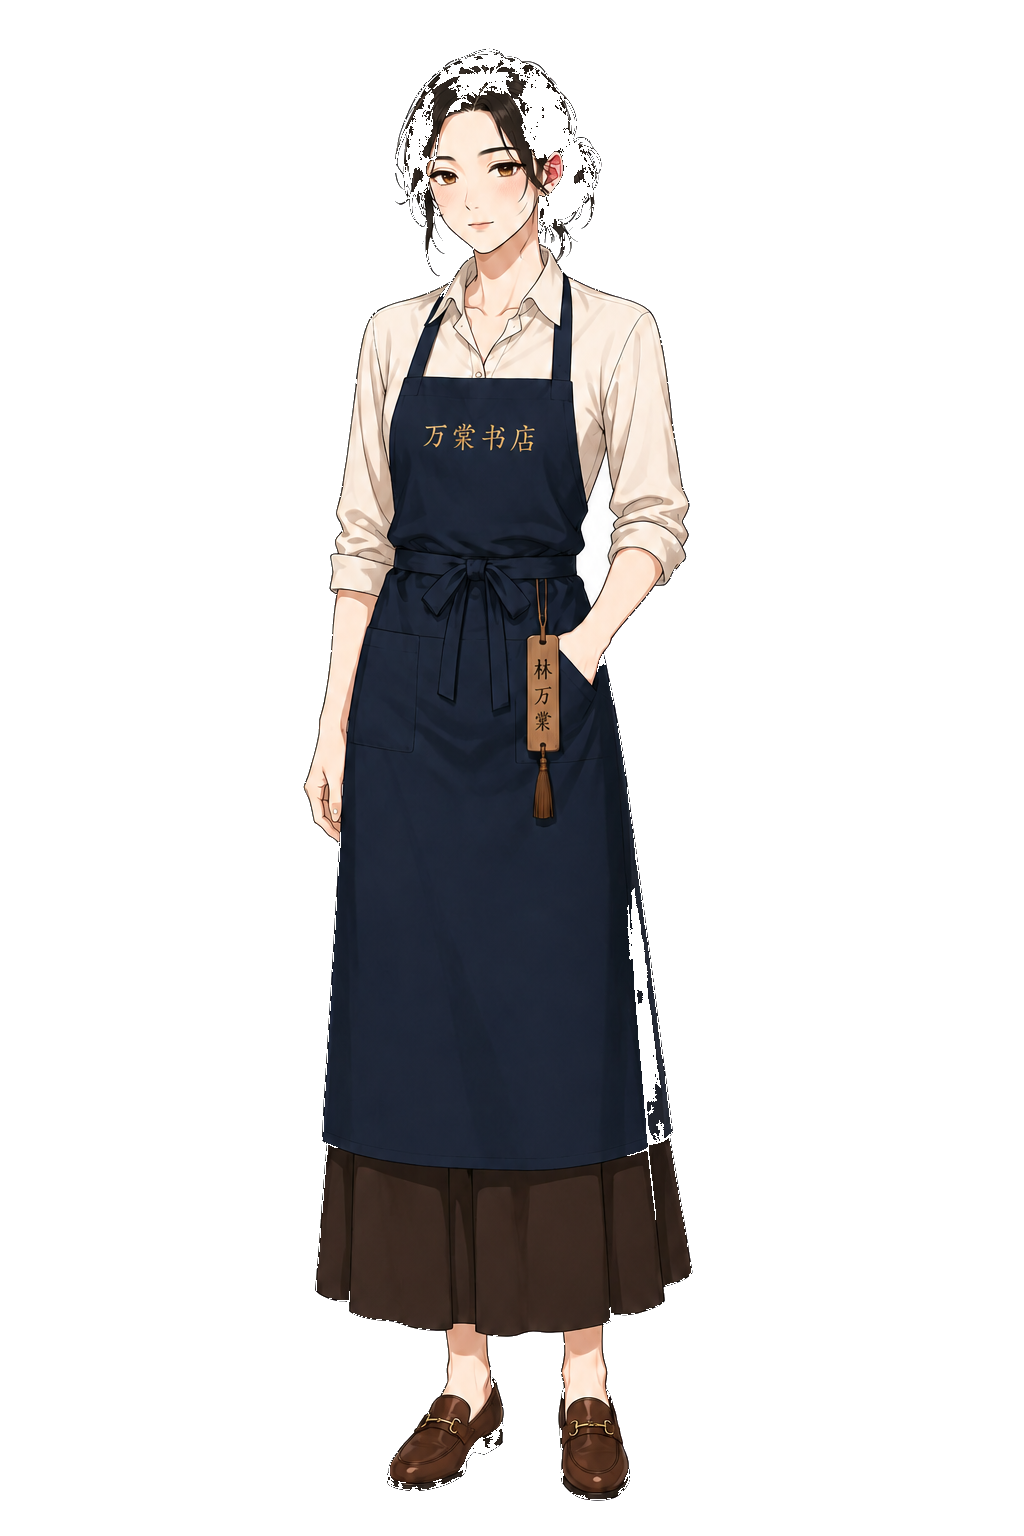
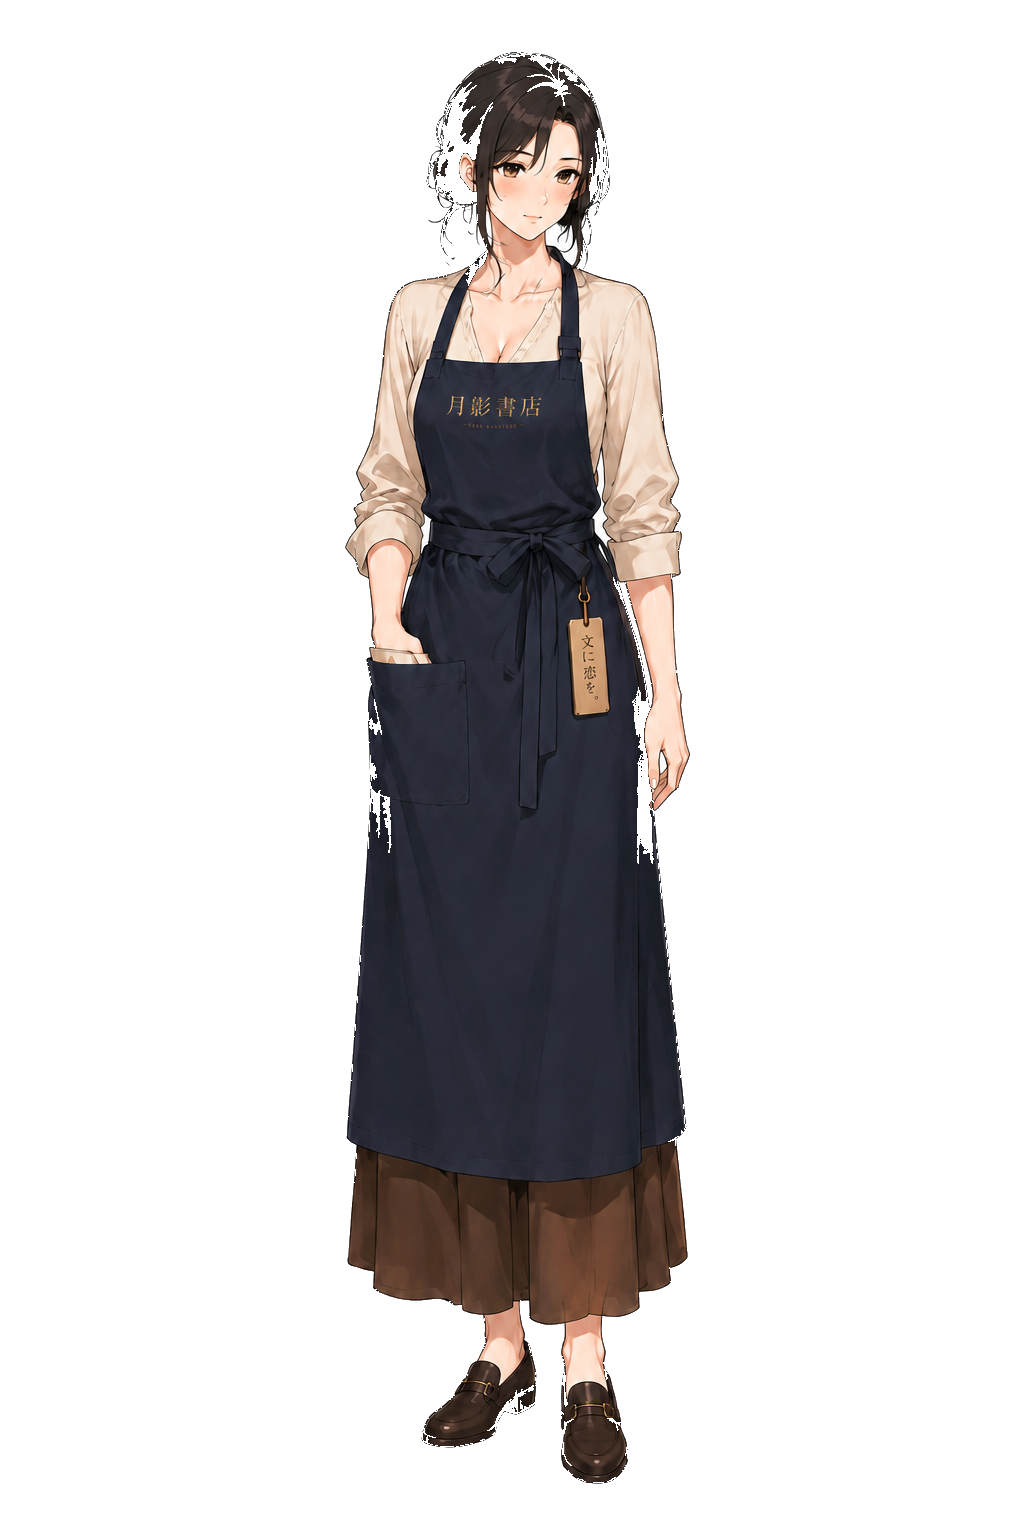
feat(assets): 按人物设计稿重绘晚棠立绘差分
- 以设计稿为参考锁定脸型发型与月影書店围裙
- 14 张表情/姿态差分重生成并抠透明底

Changed region(s): [[0.2812, 0.0312, 0.6875, 1.0]]

diff --git a/scripts/gen-assets-openai.py b/scripts/gen-assets-openai.py
@@ -26,16 +26,26 @@ ROOT = Path(__file__).resolve().parents[1]
 CHAR_DIR = ROOT / "public" / "images" / "char"
 BG_DIR = ROOT / "public" / "images" / "bg"
 CG_DIR = ROOT / "public" / "images" / "cg"
+DEFAULT_SHEET = ROOT / "docs" / "refs" / "wantang-design-sheet-a.png"
 
 WANTANG_BASE = (
-    "Japanese anime manga style visual novel character standing sprite of Lin Wantang, "
-    "27-year-old Chinese woman, cool reserved bookstore clerk, cel-shaded, clean lineart, "
-    "NOT photorealistic. Dark hair in a loose messy low bun with soft face-framing strands, "
-    "warm amber-brown eyes, fair skin. Cream linen button shirt with sleeves rolled to elbows, "
-    "long navy apron with small gold Chinese bookstore logo on chest, wooden tag at waist, "
-    "dark brown long skirt, brown leather loafers with gold bit. Full body standing, "
+    "Japanese anime manga style visual novel character standing sprite of Lin Wantang "
+    "(林晚棠), mature bookstore clerk matching the provided character design sheet, "
+    "cel-shaded, clean lineart, NOT photorealistic. Dark brown hair in a loose messy low bun "
+    "with soft face-framing strands, warm brown eyes, elegant calm face. Cream / off-white "
+    "button blouse with sleeves rolled to elbows, long navy apron with gold text 月影書店 on "
+    "chest, wooden waist tag, dark brown long skirt, brown leather loafers. Full body standing, "
     "centered, feet near bottom, plain pure white background for cutout, no scenery, "
-    "no floor shadow blob, no watermark, no UI."
+    "no floor shadow blob, no watermark, no UI, no design sheet panels."
+)
+
+SHEET_TO_DEFAULT_PROMPT = (
+    "Using this character design sheet as the ONLY identity reference, create a single clean "
+    "full-body visual novel standing sprite of the bookstore clerk woman. Match the front "
+    "turnaround / main design exactly: face, dark messy bun, cream blouse, navy apron with "
+    "gold 月影書店 logo, wooden tag, brown long skirt, brown loafers. Calm neutral expression, "
+    "one hand lightly in apron pocket. Output ONLY the one full-body sprite on pure white "
+    "background. No text, no color palette bars, no multiple views, no other panels."
 )
 
 EXPRESSIONS: list[tuple[str, str]] = [
@@ -331,11 +341,23 @@ def main() -> None:
     parser.add_argument("--only", help="single stem, e.g. wantang-default or bg-bookstore")
     parser.add_argument("--group", choices=["char", "bg", "cg", "all"], default="all")
     parser.add_argument("--no-cutout", action="store_true")
+    parser.add_argument(
+        "--from-sheet",
+        nargs="?",
+        const=str(DEFAULT_SHEET),
+        default=None,
+        help="use character design sheet as reference for wantang-default (then diffs)",
+    )
     args = parser.parse_args()
 
     load_env()
     key, base, model = api_config()
+    sheet = Path(args.from_sheet) if args.from_sheet else None
+    if sheet and not sheet.exists():
+        raise SystemExit(f"Design sheet not found: {sheet}")
     print(f"model={model} base={base}")
+    if sheet:
+        print(f"sheet={sheet}")
 
     jobs: list[tuple[str, str, Path]] = []
 
@@ -368,18 +390,32 @@ def main() -> None:
         try:
             if kind == "char":
                 expr_prompt = dict(EXPRESSIONS)[key_name]
-                if key_name == "default" or not (CHAR_DIR / "wantang-default.png").exists():
-                    prompt = f"{WANTANG_BASE} Expression/pose: {expr_prompt}."
-                    generate(key, base, model, prompt, "1024x1536", out)
+                if key_name == "default":
+                    if sheet:
+                        edit(
+                            key,
+                            base,
+                            model,
+                            SHEET_TO_DEFAULT_PROMPT,
+                            "1024x1536",
+                            sheet,
+                            out,
+                        )
+                    else:
+                        prompt = f"{WANTANG_BASE} Expression/pose: {expr_prompt}."
+                        generate(key, base, model, prompt, "1024x1536", out)
                 else:
                     ref = CHAR_DIR / "wantang-default.png"
+                    if not ref.exists():
+                        raise RuntimeError("wantang-default.png missing; generate default first")
                     prompt = (
                         "Edit the reference visual novel standing sprite. "
-                        "Keep EXACTLY the same woman: same face, hair bun, cream shirt, "
-                        "navy apron, wooden tag, brown skirt, loafers, body proportions. "
+                        "Keep EXACTLY the same woman as the reference: same face, hair bun, "
+                        "cream blouse, navy apron with 月影書店, wooden tag, brown skirt, "
+                        "loafers, body proportions. "
                         f"ONLY change to: {expr_prompt}. "
                         "Keep plain pure white background, full body, cel-shaded anime, "
-                        "NOT photorealistic, no scenery."
+                        "NOT photorealistic, no scenery, no design sheet."
                     )
                     edit(key, base, model, prompt, "1024x1536", ref, out)
                 if not args.no_cutout:
